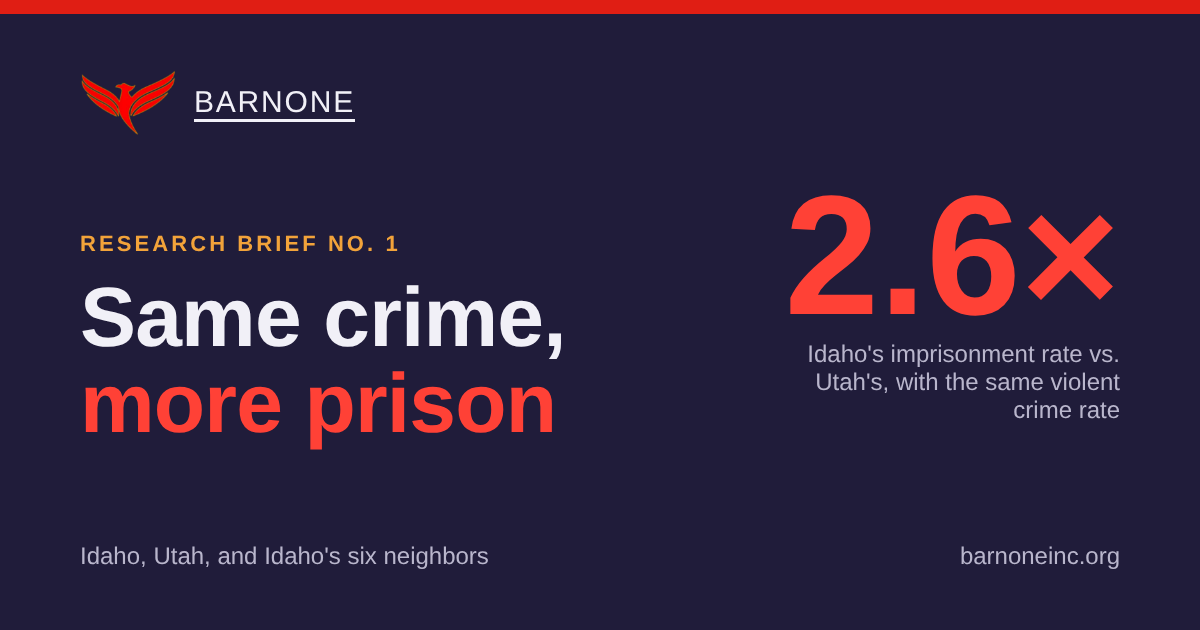
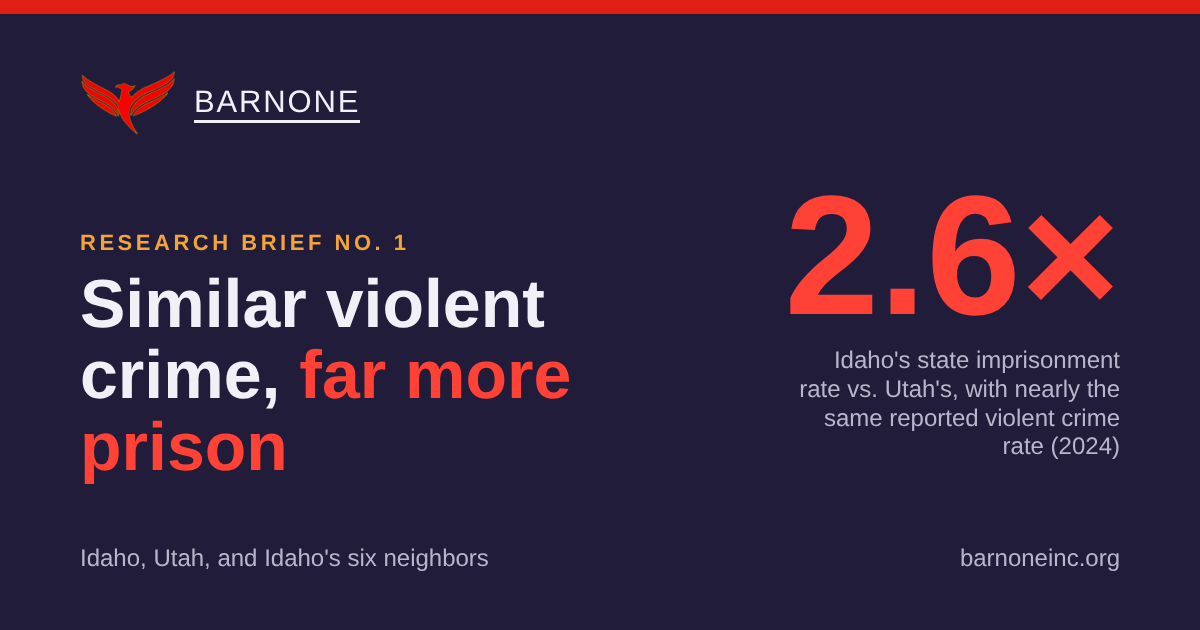
Tighten claims and add research standards after outside review
- Brief 1 retitled 'Similar violent crime, far more prison'; lede and share image say 2024 reported violent crime and state prison
- Homepage and research list summaries carry dates, bill number, and limits (Briefs 1-3)
- Brief 2 says 'sentenced to' and cites the 2025 study for lack of review
- 'Evidence over ideology' replaced with 'We show our work'
- Research standards: methods and limits, findings before recommendations, corrections contact, scope
- Search data: disambiguating description

Claude-Session: https://claude.ai/code/session_01VmF1YL66KaS5uvqGQxevXZ

diff --git a/same-crime-more-prison.html b/same-crime-more-prison.html
@@ -3,8 +3,8 @@
 <head>
 <meta charset="utf-8">
 <meta name="viewport" content="width=device-width, initial-scale=1, viewport-fit=cover">
-<title>Same Crime, More Prison: Idaho vs. Utah Incarceration | BarNone</title>
-<meta name="description" content="Idaho and Utah have nearly identical violent crime rates, but Idaho imprisons people at 2.6 times Utah's rate, the highest among its six neighbors. Data, costs, and what drives it.">
+<title>Similar Violent Crime, Far More Prison: Idaho vs. Utah | BarNone</title>
+<meta name="description" content="Idaho and Utah reported nearly identical violent crime rates in 2024, but Idaho imprisons people at 2.6 times Utah's rate, the highest among its six neighbors. Data, costs, and what drives it.">
 <link rel="canonical" href="https://barnoneinc.org/same-crime-more-prison.html">
 <meta name="robots" content="index, follow, max-image-preview:large">
 <meta name="theme-color" content="#201c3a">
@@ -12,21 +12,21 @@
 <link rel="apple-touch-icon" href="favicon.png">
 <meta property="og:site_name" content="BarNone">
 <meta property="og:type" content="article">
-<meta property="og:title" content="Same Crime, More Prison: Idaho vs. Utah Incarceration | BarNone">
-<meta property="og:description" content="Idaho and Utah have nearly identical violent crime rates, but Idaho imprisons people at 2.6 times Utah's rate, the highest among its six neighbors. Data, costs, and what drives it.">
+<meta property="og:title" content="Similar Violent Crime, Far More Prison: Idaho vs. Utah | BarNone">
+<meta property="og:description" content="Idaho and Utah reported nearly identical violent crime rates in 2024, but Idaho imprisons people at 2.6 times Utah's rate, the highest among its six neighbors. Data, costs, and what drives it.">
 <meta property="og:url" content="https://barnoneinc.org/same-crime-more-prison.html">
 <meta property="og:image" content="https://barnoneinc.org/og-same-crime-more-prison.png">
 <meta property="og:image:width" content="1200">
 <meta property="og:image:height" content="630">
 <meta property="og:locale" content="en_US">
 <meta name="twitter:card" content="summary_large_image">
-<meta name="twitter:title" content="Same Crime, More Prison: Idaho vs. Utah Incarceration | BarNone">
-<meta name="twitter:description" content="Idaho and Utah have nearly identical violent crime rates, but Idaho imprisons people at 2.6 times Utah's rate, the highest among its six neighbors. Data, costs, and what drives it.">
+<meta name="twitter:title" content="Similar Violent Crime, Far More Prison: Idaho vs. Utah | BarNone">
+<meta name="twitter:description" content="Idaho and Utah reported nearly identical violent crime rates in 2024, but Idaho imprisons people at 2.6 times Utah's rate, the highest among its six neighbors. Data, costs, and what drives it.">
 <meta name="twitter:image" content="https://barnoneinc.org/og-same-crime-more-prison.png">
 <meta property="article:published_time" content="2026-11-02">
-<script type="application/ld+json">{"@context": "https://schema.org", "@type": "Report", "headline": "Same Crime, More Prison: Idaho, Utah, and Idaho's Neighbors", "name": "Same Crime, More Prison: Idaho, Utah, and Idaho's Neighbors", "description": "Idaho and Utah have nearly identical violent crime rates, but Idaho imprisons people at 2.6 times Utah's rate, the highest among its six neighbors. Data, costs, and what drives it.", "url": "https://barnoneinc.org/same-crime-more-prison.html", "reportNumber": "1", "datePublished": "2026-11-02", "dateModified": "2026-11-09", "inLanguage": "en", "image": "https://barnoneinc.org/og-same-crime-more-prison.png", "author": {"@id": "https://barnoneinc.org/#org"}, "publisher": {"@id": "https://barnoneinc.org/#org"}, "about": ["Incarceration in Idaho", "Prison population", "Utah justice reinvestment", "Women's incarceration", "Mandatory minimums"], "spatialCoverage": ["Idaho", "Utah", "Washington", "Oregon", "Montana", "Wyoming", "Nevada"], "isPartOf": {"@id": "https://barnoneinc.org/#website"}}</script>
+<script type="application/ld+json">{"@context": "https://schema.org", "@type": "Report", "headline": "Similar Violent Crime, Far More Prison: Idaho, Utah, and Idaho's Neighbors", "name": "Similar Violent Crime, Far More Prison: Idaho, Utah, and Idaho's Neighbors", "description": "Idaho and Utah reported nearly identical violent crime rates in 2024, but Idaho imprisons people at 2.6 times Utah's rate, the highest among its six neighbors. Data, costs, and what drives it.", "url": "https://barnoneinc.org/same-crime-more-prison.html", "reportNumber": "1", "datePublished": "2026-11-02", "dateModified": "2026-11-09", "inLanguage": "en", "image": "https://barnoneinc.org/og-same-crime-more-prison.png", "author": {"@id": "https://barnoneinc.org/#org"}, "publisher": {"@id": "https://barnoneinc.org/#org"}, "about": ["Incarceration in Idaho", "Prison population", "Utah justice reinvestment", "Women's incarceration", "Mandatory minimums"], "spatialCoverage": ["Idaho", "Utah", "Washington", "Oregon", "Montana", "Wyoming", "Nevada"], "isPartOf": {"@id": "https://barnoneinc.org/#website"}}</script>
 <script type="application/ld+json">{"@context": "https://schema.org", "@type": "Dataset", "name": "Idaho and neighboring states: imprisonment, crime, and prison cost data (2022-2026)", "description": "Imprisonment rates (BJS, 2022-2023), violent and property crime rates (FBI UCR, 2024), and Idaho prison capacity, cost, and parole figures for Idaho, Utah, Washington, Oregon, Montana, Wyoming, and Nevada, compiled for BarNone Research Brief No. 1.", "url": "https://barnoneinc.org/same-crime-more-prison.html", "creator": {"@type": "NGO", "name": "BarNone, Inc.", "url": "https://barnoneinc.org/"}, "license": "https://creativecommons.org/licenses/by/4.0/", "isAccessibleForFree": true, "temporalCoverage": "2012/2026", "spatialCoverage": "Idaho, Utah, Washington, Oregon, Montana, Wyoming, Nevada", "keywords": ["incarceration rate", "imprisonment rate", "Idaho prisons", "crime rate", "Utah", "women in prison"], "distribution": [{"@type": "DataDownload", "encodingFormat": "text/csv", "contentUrl": "https://barnoneinc.org/same-crime-more-prison-data.csv"}]}</script>
-<script type="application/ld+json">{"@context": "https://schema.org", "@type": "BreadcrumbList", "itemListElement": [{"@type": "ListItem", "position": 1, "name": "BarNone", "item": "https://barnoneinc.org/"}, {"@type": "ListItem", "position": 2, "name": "Research", "item": "https://barnoneinc.org/research.html"}, {"@type": "ListItem", "position": 3, "name": "Same Crime, More Prison", "item": "https://barnoneinc.org/same-crime-more-prison.html"}]}</script>
+<script type="application/ld+json">{"@context": "https://schema.org", "@type": "BreadcrumbList", "itemListElement": [{"@type": "ListItem", "position": 1, "name": "BarNone", "item": "https://barnoneinc.org/"}, {"@type": "ListItem", "position": 2, "name": "Research", "item": "https://barnoneinc.org/research.html"}, {"@type": "ListItem", "position": 3, "name": "Similar Violent Crime, Far More Prison", "item": "https://barnoneinc.org/same-crime-more-prison.html"}]}</script>
 <meta name="claude:viewport-fit-sides" content="cover">
 <link rel="preconnect" href="https://fonts.googleapis.com"><link rel="preconnect" href="https://fonts.gstatic.com" crossorigin><link rel="stylesheet" href="https://fonts.googleapis.com/css2?family=Archivo:wdth,wght@100..125,600..800&family=Michroma&family=Public+Sans:ital,wght@0,400..700;1,400&display=swap">
 <link rel="stylesheet" href="site.css?v=20261122">
@@ -45,9 +45,9 @@
 <section class="brief-head"><div class="wrap">
   <a class="back" href="research.html">&larr; All research briefs</a>
   <p class="eyebrow">Research Brief No. 1 &middot; Idaho</p>
-  <h1>Same crime, more prison</h1>
-  <p class="lede">Idaho has one of the lowest crime rates in the West and the highest imprisonment rate among its six neighbors. Utah, with the same violent crime rate, imprisons people at well under half Idaho's rate. This brief looks at why, what it costs, and what Utah did differently.</p>
-  <div class="brief-meta"><span>BarNone research</span><span>November 2026 &middot; Updated Nov. 9, 2026</span><span>Idaho and its six neighbors</span><a href="same-crime-more-prison-data.csv">Download the data (CSV)</a></div>
+  <h1>Similar violent crime, far more prison</h1>
+  <p class="lede">In 2024, Idaho reported less violent crime per resident than four of its six neighbors, yet it holds people in state prison at the highest rate of the seven. Utah, with nearly the same reported violent crime rate, imprisons people at well under half Idaho's rate. This brief looks at why, what it costs, and what Utah did differently.</p>
+  <div class="brief-meta"><span>BarNone research</span><span>November 2026 &middot; Updated Nov. 22, 2026</span><span>Idaho and its six neighbors</span><a href="same-crime-more-prison-data.csv">Download the data (CSV)</a></div>
   <nav class="toc-brief" aria-label="In this brief">
     <a href="#findings">Key findings</a><a href="#why-utah">Why Utah?</a><a href="#neighbors">Idaho and its neighbors</a><a href="#women">Women</a><a href="#drivers">What drives it</a><a href="#cost">Cost</a><a href="#gap">2027 update</a><a href="#utah-reforms">What Utah did</a><a href="#research">The research</a><a href="#limits">Limits</a><a href="#next">Next steps</a><a href="#methods">Methods</a>
   </nav>
@@ -277,7 +277,7 @@
     <li>Prison Policy Initiative state profiles: <a href="https://www.prisonpolicy.org/profiles/ID.html">Idaho</a>, <a href="https://www.prisonpolicy.org/profiles/UT.html">Utah</a>.</li>
   </ol>
   <p class="kicker" style="margin-top:.6rem">Suggested citation</p>
-  <p class="cite">BarNone. (2026). <em>Same crime, more prison: Idaho, Utah, and Idaho's neighbors</em> (Research Brief No. 1). barnoneinc.org</p>
+  <p class="cite">BarNone. (2026). <em>Similar violent crime, far more prison: Idaho, Utah, and Idaho's neighbors</em> (Research Brief No. 1). barnoneinc.org</p>
 </section>
 </div>
 </main>

diff --git a/index.html b/index.html
@@ -23,7 +23,7 @@
 <meta name="twitter:title" content="BarNone | Incarceration Research for Idaho, Washington &amp; Oregon">
 <meta name="twitter:description" content="BarNone is a nonpartisan research and policy organization tracking who Idaho, Washington, and Oregon lock up and why: prison populations, sentencing, costs, and reentry resources.">
 <meta name="twitter:image" content="https://barnoneinc.org/og-barnone.png">
-<script type="application/ld+json">{"@context": "https://schema.org", "@type": "NGO", "@id": "https://barnoneinc.org/#org", "name": "BarNone, Inc.", "alternateName": "BarNone", "url": "https://barnoneinc.org/", "logo": "https://barnoneinc.org/barnone-logo.png", "image": "https://barnoneinc.org/og-barnone.png", "email": "admin@barnoneinc.org", "description": "Nonpartisan research and policy organization tracking incarceration, sentencing, and prisons in Idaho, Washington, and Oregon.", "foundingDate": "2018", "foundingLocation": {"@type": "Place", "name": "Boise, Idaho"}, "nonprofitStatus": "Nonprofit501c3", "areaServed": [{"@type": "State", "name": "Idaho"}, {"@type": "State", "name": "Washington"}, {"@type": "State", "name": "Oregon"}], "knowsAbout": ["incarceration", "sentencing reform", "prison population", "mandatory minimums", "long sentences", "second look sentencing", "reentry", "criminal justice policy"]}</script>
+<script type="application/ld+json">{"@context": "https://schema.org", "@type": "NGO", "@id": "https://barnoneinc.org/#org", "name": "BarNone, Inc.", "alternateName": "BarNone", "url": "https://barnoneinc.org/", "logo": "https://barnoneinc.org/barnone-logo.png", "image": "https://barnoneinc.org/og-barnone.png", "email": "admin@barnoneinc.org", "description": "Nonpartisan research and policy organization tracking incarceration, sentencing, and prisons in Idaho, Washington, and Oregon.", "disambiguatingDescription": "BarNone, Inc. of Boise, Idaho: a criminal justice research nonprofit serving Idaho, Washington, and Oregon. Not affiliated with other companies named Bar None.", "foundingDate": "2018", "foundingLocation": {"@type": "Place", "name": "Boise, Idaho"}, "nonprofitStatus": "Nonprofit501c3", "areaServed": [{"@type": "State", "name": "Idaho"}, {"@type": "State", "name": "Washington"}, {"@type": "State", "name": "Oregon"}], "knowsAbout": ["incarceration", "sentencing reform", "prison population", "mandatory minimums", "long sentences", "second look sentencing", "reentry", "criminal justice policy"]}</script>
 <script type="application/ld+json">{"@context": "https://schema.org", "@type": "WebSite", "@id": "https://barnoneinc.org/#website", "name": "BarNone", "url": "https://barnoneinc.org/", "publisher": {"@id": "https://barnoneinc.org/#org"}}</script>
 <meta name="claude:viewport-fit-sides" content="cover">
 <link rel="preconnect" href="https://fonts.googleapis.com"><link rel="preconnect" href="https://fonts.gstatic.com" crossorigin><link rel="stylesheet" href="https://fonts.googleapis.com/css2?family=Archivo:wdth,wght@100..125,600..800&family=Michroma&family=Public+Sans:ital,wght@0,400..700;1,400&display=swap">
@@ -90,9 +90,9 @@
     <div class="feature-stat" aria-hidden="true"><span class="fs-num">$70M</span><span class="fs-lbl">a year Washington could save at an accelerated pace (preliminary estimate)</span></div>
   </a>
   <ol class="brief-list" style="margin-top:2rem">
-    <li><a href="same-crime-more-prison.html"><span class="no">No. 1</span><span class="bl-main"><h3>Same crime, more prison</h3><span class="muted">Idaho and Utah have the same violent crime rate. Idaho imprisons people at 2.6 times Utah's rate.</span></span><span class="bl-meta">Idaho &middot; Nov. 2026</span></a></li>
-    <li><a href="long-sentences.html"><span class="no">No. 2</span><span class="bl-main"><h3>Long and life sentences in Washington</h3><span class="muted">Nearly half of people in Washington prisons are serving more than 10 years or life, and most have no way to have their sentence reviewed.</span></span><span class="bl-meta">Washington &middot; Nov. 2026</span></a></li>
-    <li><a href="review-act.html"><span class="no">No. 3</span><span class="bl-main"><h3>Who would benefit from the Review Act</h3><span class="muted">About 3,035 people would become eligible to ask a judge for a second look, from 37 of 39 counties.</span></span><span class="bl-meta">Washington &middot; Nov. 2026</span></a></li>
+    <li><a href="same-crime-more-prison.html"><span class="no">No. 1</span><span class="bl-main"><h3>Similar violent crime, far more prison</h3><span class="muted">In 2024, Idaho and Utah reported nearly the same violent crime rate. Idaho holds people in state prison at 2.6 times Utah's rate.</span></span><span class="bl-meta">Idaho &middot; Nov. 2026</span></a></li>
+    <li><a href="long-sentences.html"><span class="no">No. 2</span><span class="bl-main"><h3>Long and life sentences in Washington</h3><span class="muted">49% of people in Washington prisons in September 2026 were sentenced to more than 10 years or to life. A 2025 study estimates nearly one in three is serving a long or life sentence with no parole review.</span></span><span class="bl-meta">Washington &middot; Nov. 2026</span></a></li>
+    <li><a href="review-act.html"><span class="no">No. 3</span><span class="bl-main"><h3>Who would benefit from the Review Act</h3><span class="muted">Applying the 2025 bill (HB 1125) to the September 2024 prison population, about 3,035 people could ask a judge for a second look. Eligible to ask is not released; DOC's own estimate was 2,188.</span></span><span class="bl-meta">Washington &middot; Nov. 2026</span></a></li>
     <li><a href="smart-on-crime-washington.html"><span class="no">No. 4</span><span class="bl-main"><h3>Smart on crime, smart on the budget</h3><span class="muted">Graduated reentry, clemency, elder parole and unit closures could save Washington about $70 million a year at an accelerated pace.</span></span><span class="bl-meta">Washington &middot; Nov. 2026</span></a></li>
     <li><a href="smart-on-crime-idaho.html"><span class="no">No. 5</span><span class="bl-main"><h3>Smart on crime, smart on the budget: Idaho</h3><span class="muted">About 10,000 people in custody and beds for 8,200. Eight changes that would spend less and get better results.</span></span><span class="bl-meta">Idaho &middot; Nov. 2026</span></a></li>
   </ol>
@@ -126,12 +126,12 @@
 <section class="section"><div class="wrap split">
   <div class="section-head" style="margin:0">
     <p class="eyebrow">Our approach</p>
-    <h2>Evidence over ideology</h2>
+    <h2>We show our work</h2>
   </div>
   <div class="prose">
-    <p>We follow the data wherever it goes. When a policy keeps people safe at lower cost, we say so. When it fills prisons without making anyone safer, we say that too.</p>
-    <p>We work with lawmakers of every party. The best answers to crime and incarceration are usually found in communities: a job, a home, treatment that works, and people who show up. Our research asks whether the Northwest is investing in them.</p>
-    <div class="btns"><a class="btn ghost" href="about.html">About BarNone</a></div>
+    <p>We study how incarceration is used, what it costs, and whether alternatives can improve safety and accountability. We publish our sources, explain our methods, say what each brief can't show, and keep findings separate from recommendations. You can check our work and still disagree with our conclusions.</p>
+    <p>We work with lawmakers of every party. We don't hide where we start: the evidence so far suggests the best answers to crime are usually found in communities, in a job, a home, treatment that works, and people who show up. Our research tests that against the Northwest's own numbers.</p>
+    <div class="btns"><a class="btn ghost" href="research.html#standards">Our research standards</a><a class="btn ghost" href="about.html">About BarNone</a></div>
   </div>
 </div></section>
 <section class="section" style="background:var(--tint)"><div class="wrap">

diff --git a/long-sentences.html b/long-sentences.html
@@ -4,7 +4,7 @@
 <meta charset="utf-8">
 <meta name="viewport" content="width=device-width, initial-scale=1, viewport-fit=cover">
 <title>Long and Life Sentences in Washington Prisons | BarNone</title>
-<meta name="description" content="Nearly half of people in Washington prisons are serving more than 10 years or life. A BarNone research brief on what has changed since About Time, who could safely come home, and what we still need to know.">
+<meta name="description" content="Nearly half of people in Washington prisons were sentenced to more than 10 years or to life. A BarNone research brief on what has changed since About Time, who could safely come home, and what we still need to know.">
 <link rel="canonical" href="https://barnoneinc.org/long-sentences.html">
 <meta name="robots" content="index, follow, max-image-preview:large">
 <meta name="theme-color" content="#201c3a">
@@ -13,7 +13,7 @@
 <meta property="og:site_name" content="BarNone">
 <meta property="og:type" content="article">
 <meta property="og:title" content="Long and Life Sentences in Washington Prisons | BarNone">
-<meta property="og:description" content="Nearly half of people in Washington prisons are serving more than 10 years or life. A BarNone research brief on what has changed since About Time, who could safely come home, and what we still need to know.">
+<meta property="og:description" content="Nearly half of people in Washington prisons were sentenced to more than 10 years or to life. A BarNone research brief on what has changed since About Time, who could safely come home, and what we still need to know.">
 <meta property="og:url" content="https://barnoneinc.org/long-sentences.html">
 <meta property="og:image" content="https://barnoneinc.org/og-long-sentences.png">
 <meta property="og:image:width" content="1200">
@@ -21,10 +21,10 @@
 <meta property="og:locale" content="en_US">
 <meta name="twitter:card" content="summary_large_image">
 <meta name="twitter:title" content="Long and Life Sentences in Washington Prisons | BarNone">
-<meta name="twitter:description" content="Nearly half of people in Washington prisons are serving more than 10 years or life. A BarNone research brief on what has changed since About Time, who could safely come home, and what we still need to know.">
+<meta name="twitter:description" content="Nearly half of people in Washington prisons were sentenced to more than 10 years or to life. A BarNone research brief on what has changed since About Time, who could safely come home, and what we still need to know.">
 <meta name="twitter:image" content="https://barnoneinc.org/og-long-sentences.png">
 <meta property="article:published_time" content="2026-11-02">
-<script type="application/ld+json">{"@context": "https://schema.org", "@type": "Report", "headline": "Long and Life Sentences in Washington", "name": "Long and Life Sentences in Washington", "description": "Nearly half of people in Washington prisons are serving more than 10 years or life. A BarNone research brief on what has changed since About Time, who could safely come home, and what we still need to know.", "url": "https://barnoneinc.org/long-sentences.html", "reportNumber": "2", "datePublished": "2026-11-02", "dateModified": "2026-11-02", "inLanguage": "en", "image": "https://barnoneinc.org/og-long-sentences.png", "author": {"@id": "https://barnoneinc.org/#org"}, "publisher": {"@id": "https://barnoneinc.org/#org"}, "about": ["Long prison sentences", "Life sentences", "Second look sentencing", "Washington prisons"], "spatialCoverage": ["Washington", "Idaho", "Oregon"], "isPartOf": {"@id": "https://barnoneinc.org/#website"}}</script>
+<script type="application/ld+json">{"@context": "https://schema.org", "@type": "Report", "headline": "Long and Life Sentences in Washington", "name": "Long and Life Sentences in Washington", "description": "Nearly half of people in Washington prisons were sentenced to more than 10 years or to life. A BarNone research brief on what has changed since About Time, who could safely come home, and what we still need to know.", "url": "https://barnoneinc.org/long-sentences.html", "reportNumber": "2", "datePublished": "2026-11-02", "dateModified": "2026-11-02", "inLanguage": "en", "image": "https://barnoneinc.org/og-long-sentences.png", "author": {"@id": "https://barnoneinc.org/#org"}, "publisher": {"@id": "https://barnoneinc.org/#org"}, "about": ["Long prison sentences", "Life sentences", "Second look sentencing", "Washington prisons"], "spatialCoverage": ["Washington", "Idaho", "Oregon"], "isPartOf": {"@id": "https://barnoneinc.org/#website"}}</script>
 <script type="application/ld+json">{"@context": "https://schema.org", "@type": "BreadcrumbList", "itemListElement": [{"@type": "ListItem", "position": 1, "name": "BarNone", "item": "https://barnoneinc.org/"}, {"@type": "ListItem", "position": 2, "name": "Research", "item": "https://barnoneinc.org/research.html"}, {"@type": "ListItem", "position": 3, "name": "Long and Life Sentences in Washington", "item": "https://barnoneinc.org/long-sentences.html"}]}</script>
 <link rel="preconnect" href="https://fonts.googleapis.com"><link rel="preconnect" href="https://fonts.gstatic.com" crossorigin><link rel="stylesheet" href="https://fonts.googleapis.com/css2?family=Archivo:wdth,wght@100..125,600..800&family=Michroma&family=Public+Sans:ital,wght@0,400..700;1,400&display=swap">
 <link rel="stylesheet" href="site.css?v=20261122">
@@ -44,7 +44,7 @@
   <a class="back" href="research.html">&larr; All research briefs</a>
   <p class="eyebrow">Research Brief No. 2 &middot; Washington</p>
   <h1>Long and life sentences in Washington</h1>
-  <p class="lede">Washington imprisons fewer people per resident than Idaho or Oregon. But nearly half of the people in its prisons are serving more than 10 years or life, a larger share than when the University of Washington first measured it in 2019, and most have no way to ask anyone to review their sentence.</p>
+  <p class="lede">Washington imprisons fewer people per resident than Idaho or Oregon. But nearly half of the people in its prisons were sentenced to more than 10 years or to life, a larger share than when the University of Washington first measured it in 2019. A 2025 study estimates nearly one in three people in Washington prisons is serving a long or life sentence with no parole review.</p>
   <div class="brief-meta"><span>BarNone research</span><span>November 2026</span><span>Washington, with Idaho and Oregon for comparison</span></div>
   <nav class="toc-brief" aria-label="In this brief">
     <a href="#findings">Key findings</a><a href="#scale">The scale</a><a href="#how">How we got here</a><a href="#since-2020">Since 2020</a><a href="#evidence">Who could come home</a><a href="#region">Our neighbors</a><a href="#limits">Limits</a><a href="#next">Next steps</a><a href="#sources">Sources</a>

diff --git a/research.html b/research.html
@@ -47,9 +47,9 @@
 <section class="section"><div class="wrap">
   <div class="section-head"><p class="eyebrow">Research briefs</p><h2>Published work</h2></div>
   <ol class="brief-list">
-    <li><a href="same-crime-more-prison.html"><span class="no">No. 1</span><span class="bl-main"><h3>Same crime, more prison</h3><span class="muted">Idaho and Utah have the same violent crime rate. Idaho imprisons people at 2.6 times Utah's rate, and it is out of room.</span></span><span class="bl-meta">Idaho &middot; Nov. 2026</span></a></li>
-    <li><a href="long-sentences.html"><span class="no">No. 2</span><span class="bl-main"><h3>Long and life sentences in Washington</h3><span class="muted">Nearly half of people in Washington prisons are serving more than 10 years or life, and most have no way to have their sentence reviewed.</span></span><span class="bl-meta">Washington &middot; Nov. 2026</span></a></li>
-    <li><a href="review-act.html"><span class="no">No. 3</span><span class="bl-main"><h3>Who would benefit from the Review Act</h3><span class="muted">About 3,035 people would become eligible to ask a judge for a second look, from 37 of the state's 39 counties.</span></span><span class="bl-meta">Washington &middot; Nov. 2026</span></a></li>
+    <li><a href="same-crime-more-prison.html"><span class="no">No. 1</span><span class="bl-main"><h3>Similar violent crime, far more prison</h3><span class="muted">In 2024, Idaho and Utah reported nearly the same violent crime rate. Idaho holds people in state prison at 2.6 times Utah's rate, and it is out of room.</span></span><span class="bl-meta">Idaho &middot; Nov. 2026</span></a></li>
+    <li><a href="long-sentences.html"><span class="no">No. 2</span><span class="bl-main"><h3>Long and life sentences in Washington</h3><span class="muted">49% of people in Washington prisons in September 2026 were sentenced to more than 10 years or to life. A 2025 study estimates nearly one in three is serving a long or life sentence with no parole review.</span></span><span class="bl-meta">Washington &middot; Nov. 2026</span></a></li>
+    <li><a href="review-act.html"><span class="no">No. 3</span><span class="bl-main"><h3>Who would benefit from the Review Act</h3><span class="muted">Applying the 2025 bill (HB 1125) to the September 2024 prison population, about 3,035 people could ask a judge for a second look. Eligible to ask is not released; DOC's own estimate was 2,188.</span></span><span class="bl-meta">Washington &middot; Nov. 2026</span></a></li>
     <li><a href="smart-on-crime-washington.html"><span class="no">No. 4</span><span class="bl-main"><h3>Smart on crime, smart on the budget</h3><span class="muted">Graduated reentry, clemency, elder parole and unit closures could save Washington about $70 million a year at an accelerated pace.</span></span><span class="bl-meta">Washington &middot; Nov. 2026</span></a></li>
     <li><a href="smart-on-crime-idaho.html"><span class="no">No. 5</span><span class="bl-main"><h3>Smart on crime, smart on the budget: Idaho</h3><span class="muted">About 10,000 people in custody and beds for 8,200. Eight changes that would spend less and get better results.</span></span><span class="bl-meta">Idaho &middot; Nov. 2026</span></a></li>
   </ol>
@@ -94,7 +94,7 @@
     <article class="card track-card">
       <div class="track-top"><p class="kicker">Washington</p><span class="pill part">In progress</span></div>
       <h3>Who is serving 20 years or more</h3>
-      <p class="finding">Nearly half of people in Washington prisons are serving more than 10 years or life.</p>
+      <p class="finding">49% of people in Washington prisons in September 2026 were sentenced to more than 10 years or to life.</p>
       <p class="muted">No one publishes how many are serving 20 years or more, because the state groups every sentence over 10 years together. We are requesting the records to find out.</p>
       <p class="q"><strong>Our question:</strong> How many people are serving sentences of 20 years or more, and who could safely come home through second look review?</p>
       <p class="card-foot">Source: Washington Department of Corrections, Sept. 2026 &middot; Background: <a href="long-sentences.html">Brief No. 2</a></p>
@@ -142,17 +142,20 @@
   </div>
 </div></section>
 
-<section class="section"><div class="wrap split">
+<section class="section" id="standards" style="scroll-margin-top:6rem"><div class="wrap split">
   <div class="section-head" style="margin:0"><p class="eyebrow">How we work</p><h2>Our standards</h2></div>
   <div class="prose">
     <ul>
       <li><strong>Public sources first.</strong> We build on data from state corrections departments, courts, the Bureau of Justice Statistics, and public records requests.</li>
       <li><strong>Every number cited and dated.</strong> If you can't trace a figure back to its source, we haven't done our job.</li>
-      <li><strong>Corrections in the open.</strong> When we get something wrong, we fix it and say what changed.</li>
+      <li><strong>Methods and limits in every brief.</strong> Each brief says how it was built, which years and definitions it uses, and what it does not show. Where we can, we publish the data.</li>
+      <li><strong>Findings first, then recommendations.</strong> We keep what the data shows separate from what we think lawmakers should do, and label each.</li>
+      <li><strong>Corrections in the open.</strong> When we get something wrong, we fix it, update the date on the brief, and say what changed. Send corrections to admin@barnoneinc.org.</li>
       <li><strong>Lived experience as expertise.</strong> People who have been inside help shape our questions and check our conclusions.</li>
       <li><strong>Nonpartisan.</strong> We work with lawmakers of every party in all three states, share findings with both parties, and do not endorse candidates or parties.</li>
+      <li><strong>A small shop, on purpose.</strong> BarNone publishes a few briefs a year across three states. We go deep on the questions lawmakers face next session rather than covering everything, and we update a brief when new data comes out.</li>
     </ul>
-    <p><strong>Reporters and legislative staff:</strong> we're glad to help you find and read Northwest corrections data. <a href="contact.html">Get in touch.</a></p>
+    <p><strong>Reporters and legislative staff:</strong> we're glad to help you find and read Northwest corrections data. Every brief ends with a suggested citation. <a href="contact.html">Get in touch.</a></p>
   </div>
 </div></section>
 </main>

diff --git a/review-act.html b/review-act.html
@@ -44,7 +44,7 @@
   <a class="back" href="research.html">&larr; All research briefs</a>
   <p class="eyebrow">Research Brief No. 3 &middot; Washington</p>
   <h1>Who would benefit from the Review Act</h1>
-  <p class="lede">The Review Act would let a judge take a second look at a long prison sentence and decide whether it still serves justice. About 3,035 people in Washington prisons would become eligible to ask, from 37 of the state's 39 counties.</p>
+  <p class="lede">The Review Act would let a judge take a second look at a long prison sentence and decide whether it still serves justice. Applying the 2025 bill (HB 1125) to the September 2024 prison population, about 3,035 people in Washington prisons would become eligible to ask, from 37 of the state's 39 counties. Being eligible to ask is not the same as being released: a judge decides every case.</p>
   <div class="brief-meta"><span>BarNone research</span><span>November 2026</span><span>Washington, by county</span><span>2025–26 bill: HB 1125 / SB 5269; 2027 number to follow</span></div>
   <nav class="toc-brief" aria-label="In this brief"><a href="#how">How it works</a><a href="#survivors">For survivors</a><a href="#by-county">By county</a><a href="#phases">Phases</a><a href="#record">The record</a><a href="#evidence">The evidence</a><a href="#limits">Limits</a><a href="#notes">Sources</a></nav>
   <p class="source-line">For why so many people in Washington serve long sentences, see Brief No. 2, <a href="long-sentences.html">Long and life sentences in Washington</a>.</p>

diff --git a/smart-on-crime-idaho.html b/smart-on-crime-idaho.html
@@ -47,7 +47,7 @@
   <p class="lede">Idaho prides itself on liberty and smaller government. Its prison system is the exception. About 10,000 people are in state custody, with beds for about 8,200. The overflow sits in county jails and out-of-state private prisons, and the Legislature is being asked for $45.3 million just to open new beds. This brief looks at what is filling the beds, what it costs, and eight changes that would spend less and get better results.</p>
   <div class="brief-meta"><span>BarNone policy brief</span><span>November 2026</span><span>Idaho, 2027 session</span><span>Discussion draft</span><a href="smart-on-crime-idaho.pdf">Download the PDF</a></div>
   <nav class="toc-brief" aria-label="In this brief"><a href="#ask">The ask</a><a href="#changes">Eight changes</a><a href="#numbers">The numbers</a><a href="#download">Full brief</a><a href="#limits">Read with care</a></nav>
-  <p class="source-line">For how Idaho compares with its neighbors, see Brief No. 1, <a href="same-crime-more-prison.html">Same crime, more prison</a>.</p>
+  <p class="source-line">For how Idaho compares with its neighbors, see Brief No. 1, <a href="same-crime-more-prison.html">Similar violent crime, far more prison</a>.</p>
 </div></section>
 
 <section class="section band"><div class="wrap">

diff --git a/about.html b/about.html
@@ -67,7 +67,7 @@
   <div class="section-head"><p class="eyebrow">What we believe</p><h2>Our values</h2></div>
   <div class="grid-2">
     <div class="card"><h3>Grace, bar none</h3><p class="muted">Everyone deserves a welcome home and a real second chance. No exceptions based on the charge, the sentence, or the number of tries.</p></div>
-    <div class="card"><h3>Evidence over ideology</h3><p class="muted">If a policy reduces harm and helps people succeed, we support it. If it doesn't, we say so, whoever proposed it.</p></div>
+    <div class="card"><h3>Findings before recommendations</h3><p class="muted">We report what the data shows, say what it can't show, and label our recommendations as recommendations. If a policy reduces harm and helps people succeed, we support it, whoever proposed it.</p></div>
     <div class="card"><h3>Lived experience leads</h3><p class="muted">People who have been incarcerated, and their families, know the system best. Their voices belong at the center of every conversation about it.</p></div>
     <div class="card"><h3>Independent and nonpartisan</h3><p class="muted">We work with lawmakers of every party in all three states. Our findings don't change based on who is in power.</p></div>
   </div>

diff --git a/README.md b/README.md
@@ -8,7 +8,7 @@ A multi-page static site for GitHub Pages.
 | --- | --- |
 | index.html | Home |
 | research.html | Research |
-| same-crime-more-prison.html | Research Brief No. 1: Same crime, more prison (Idaho) |
+| same-crime-more-prison.html | Research Brief No. 1: Similar violent crime, far more prison (Idaho) |
 | long-sentences.html | Research Brief No. 2: Long and life sentences in Washington |
 | review-act.html | Research Brief No. 3: Who would benefit from the Review Act |
 | smart-on-crime-washington.html | Research Brief No. 4: Smart on Crime, Smart on the Budget (Washington); full brief: smart-on-crime-washington.pdf |
